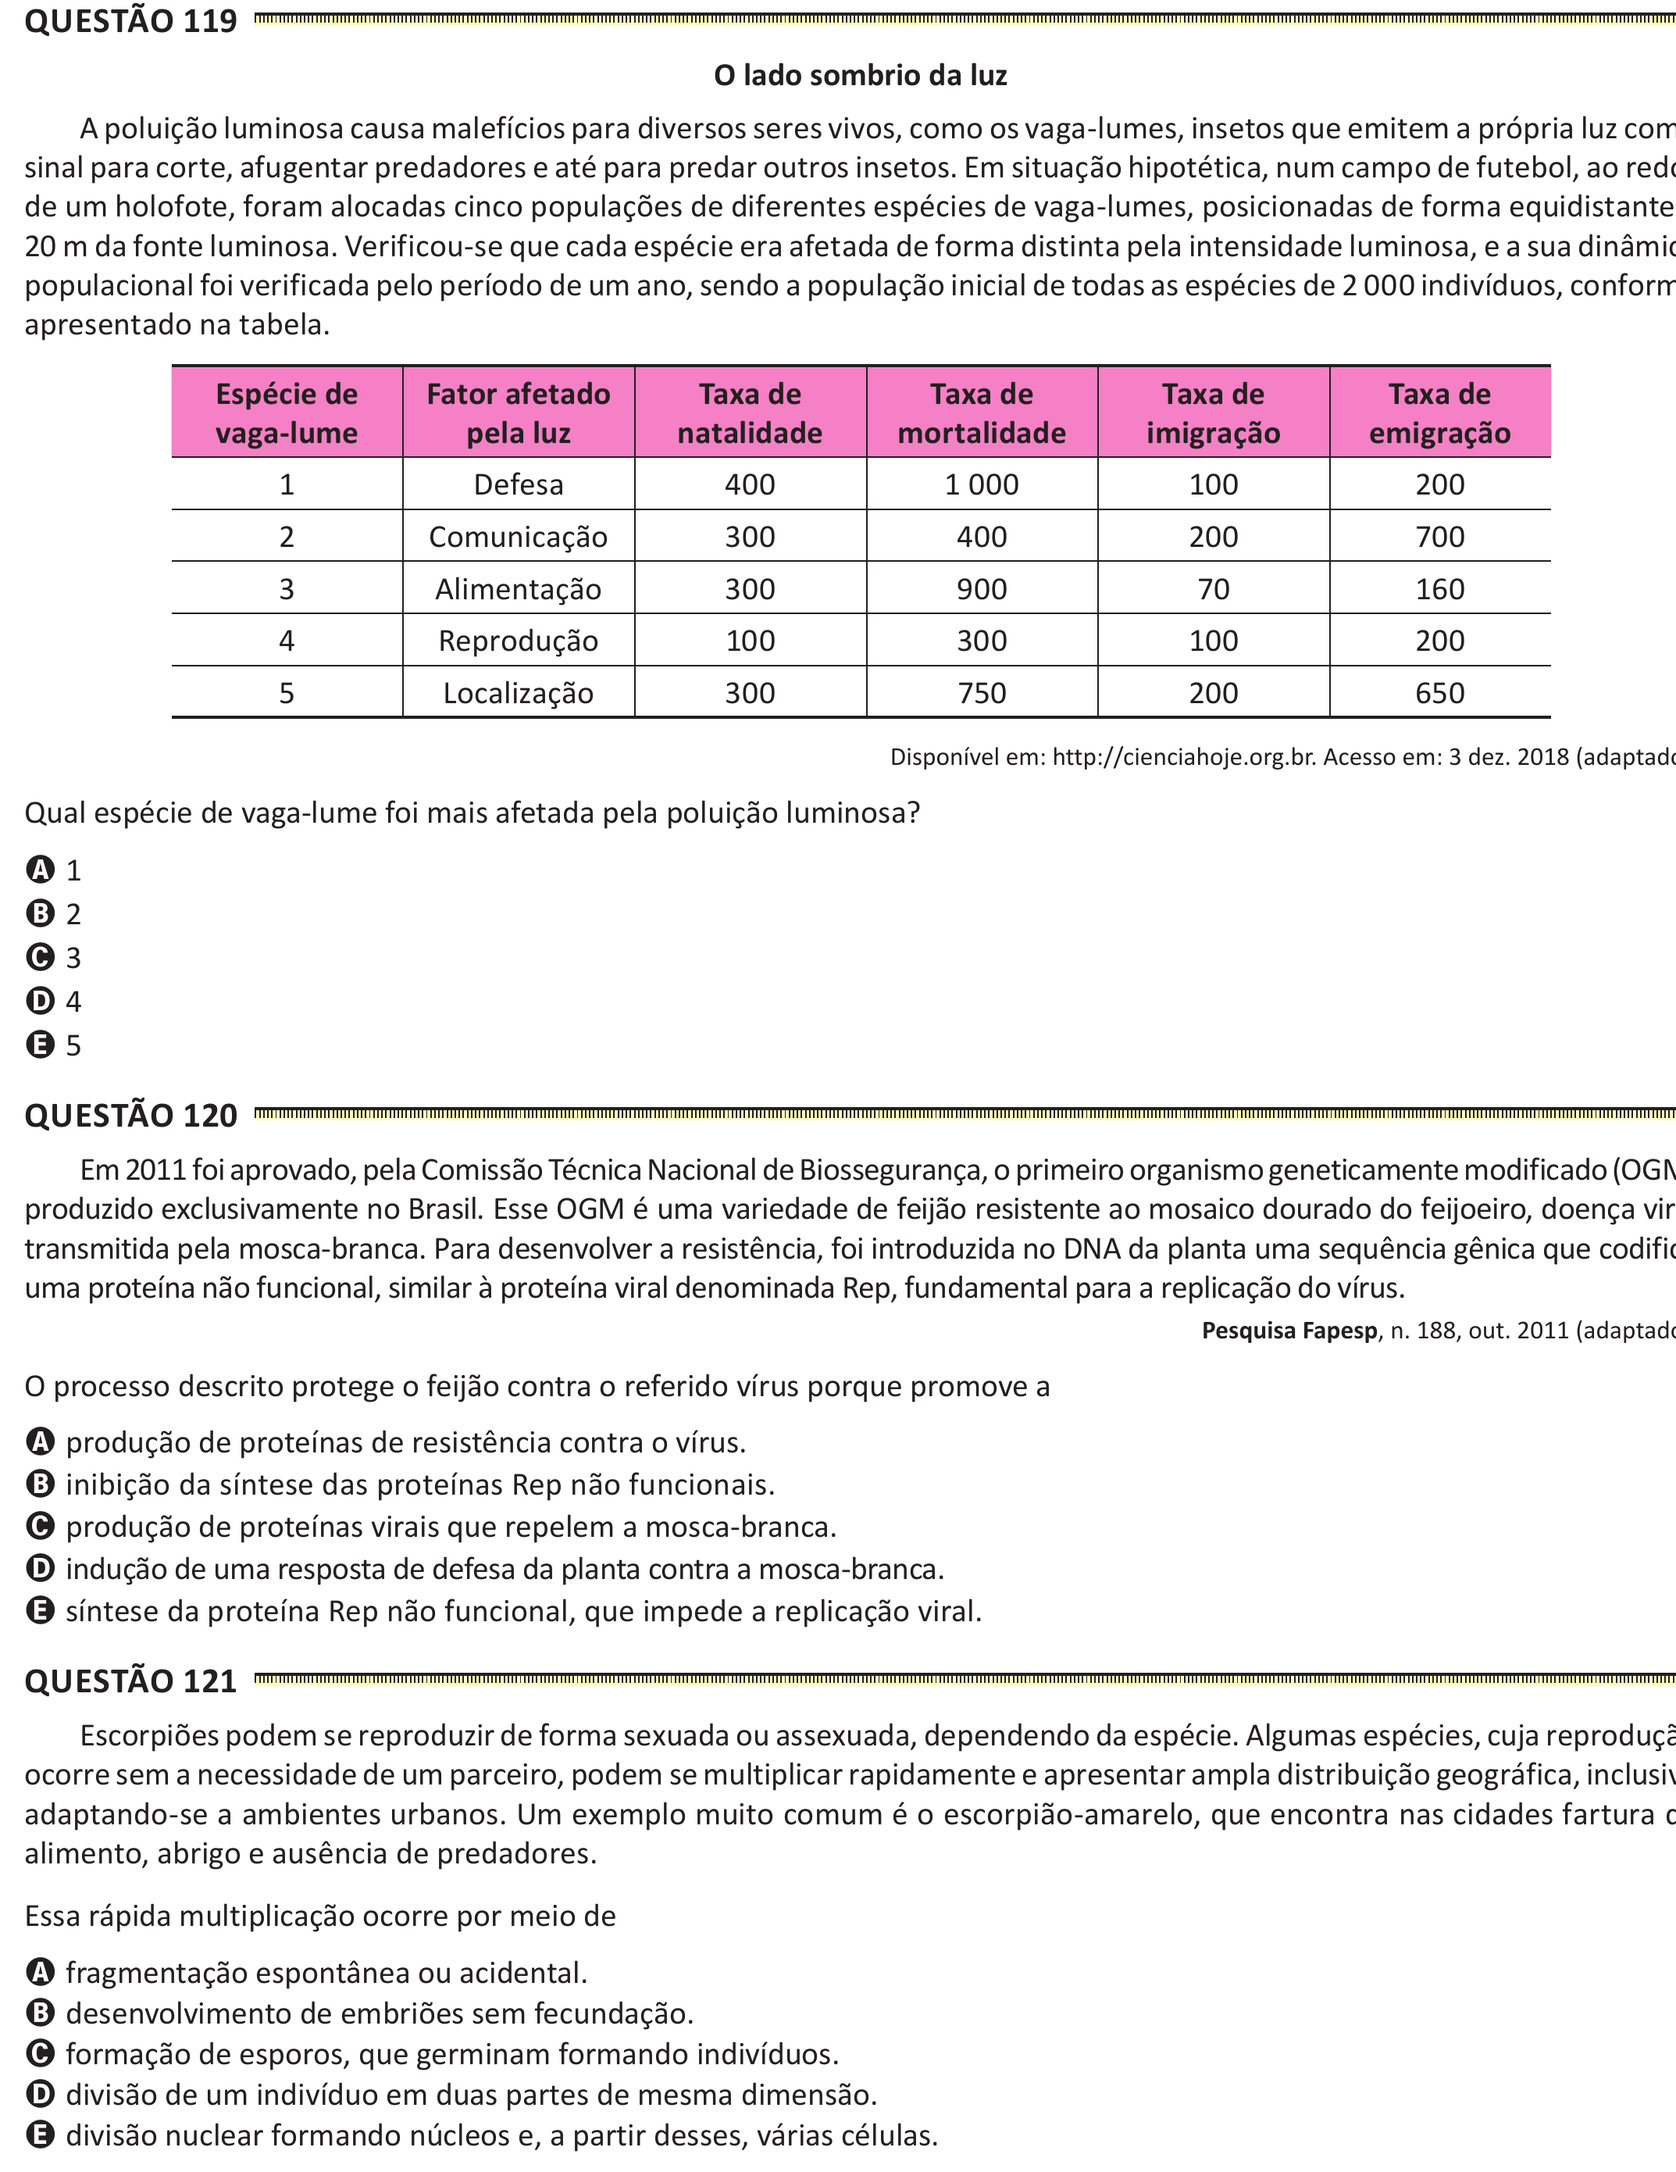
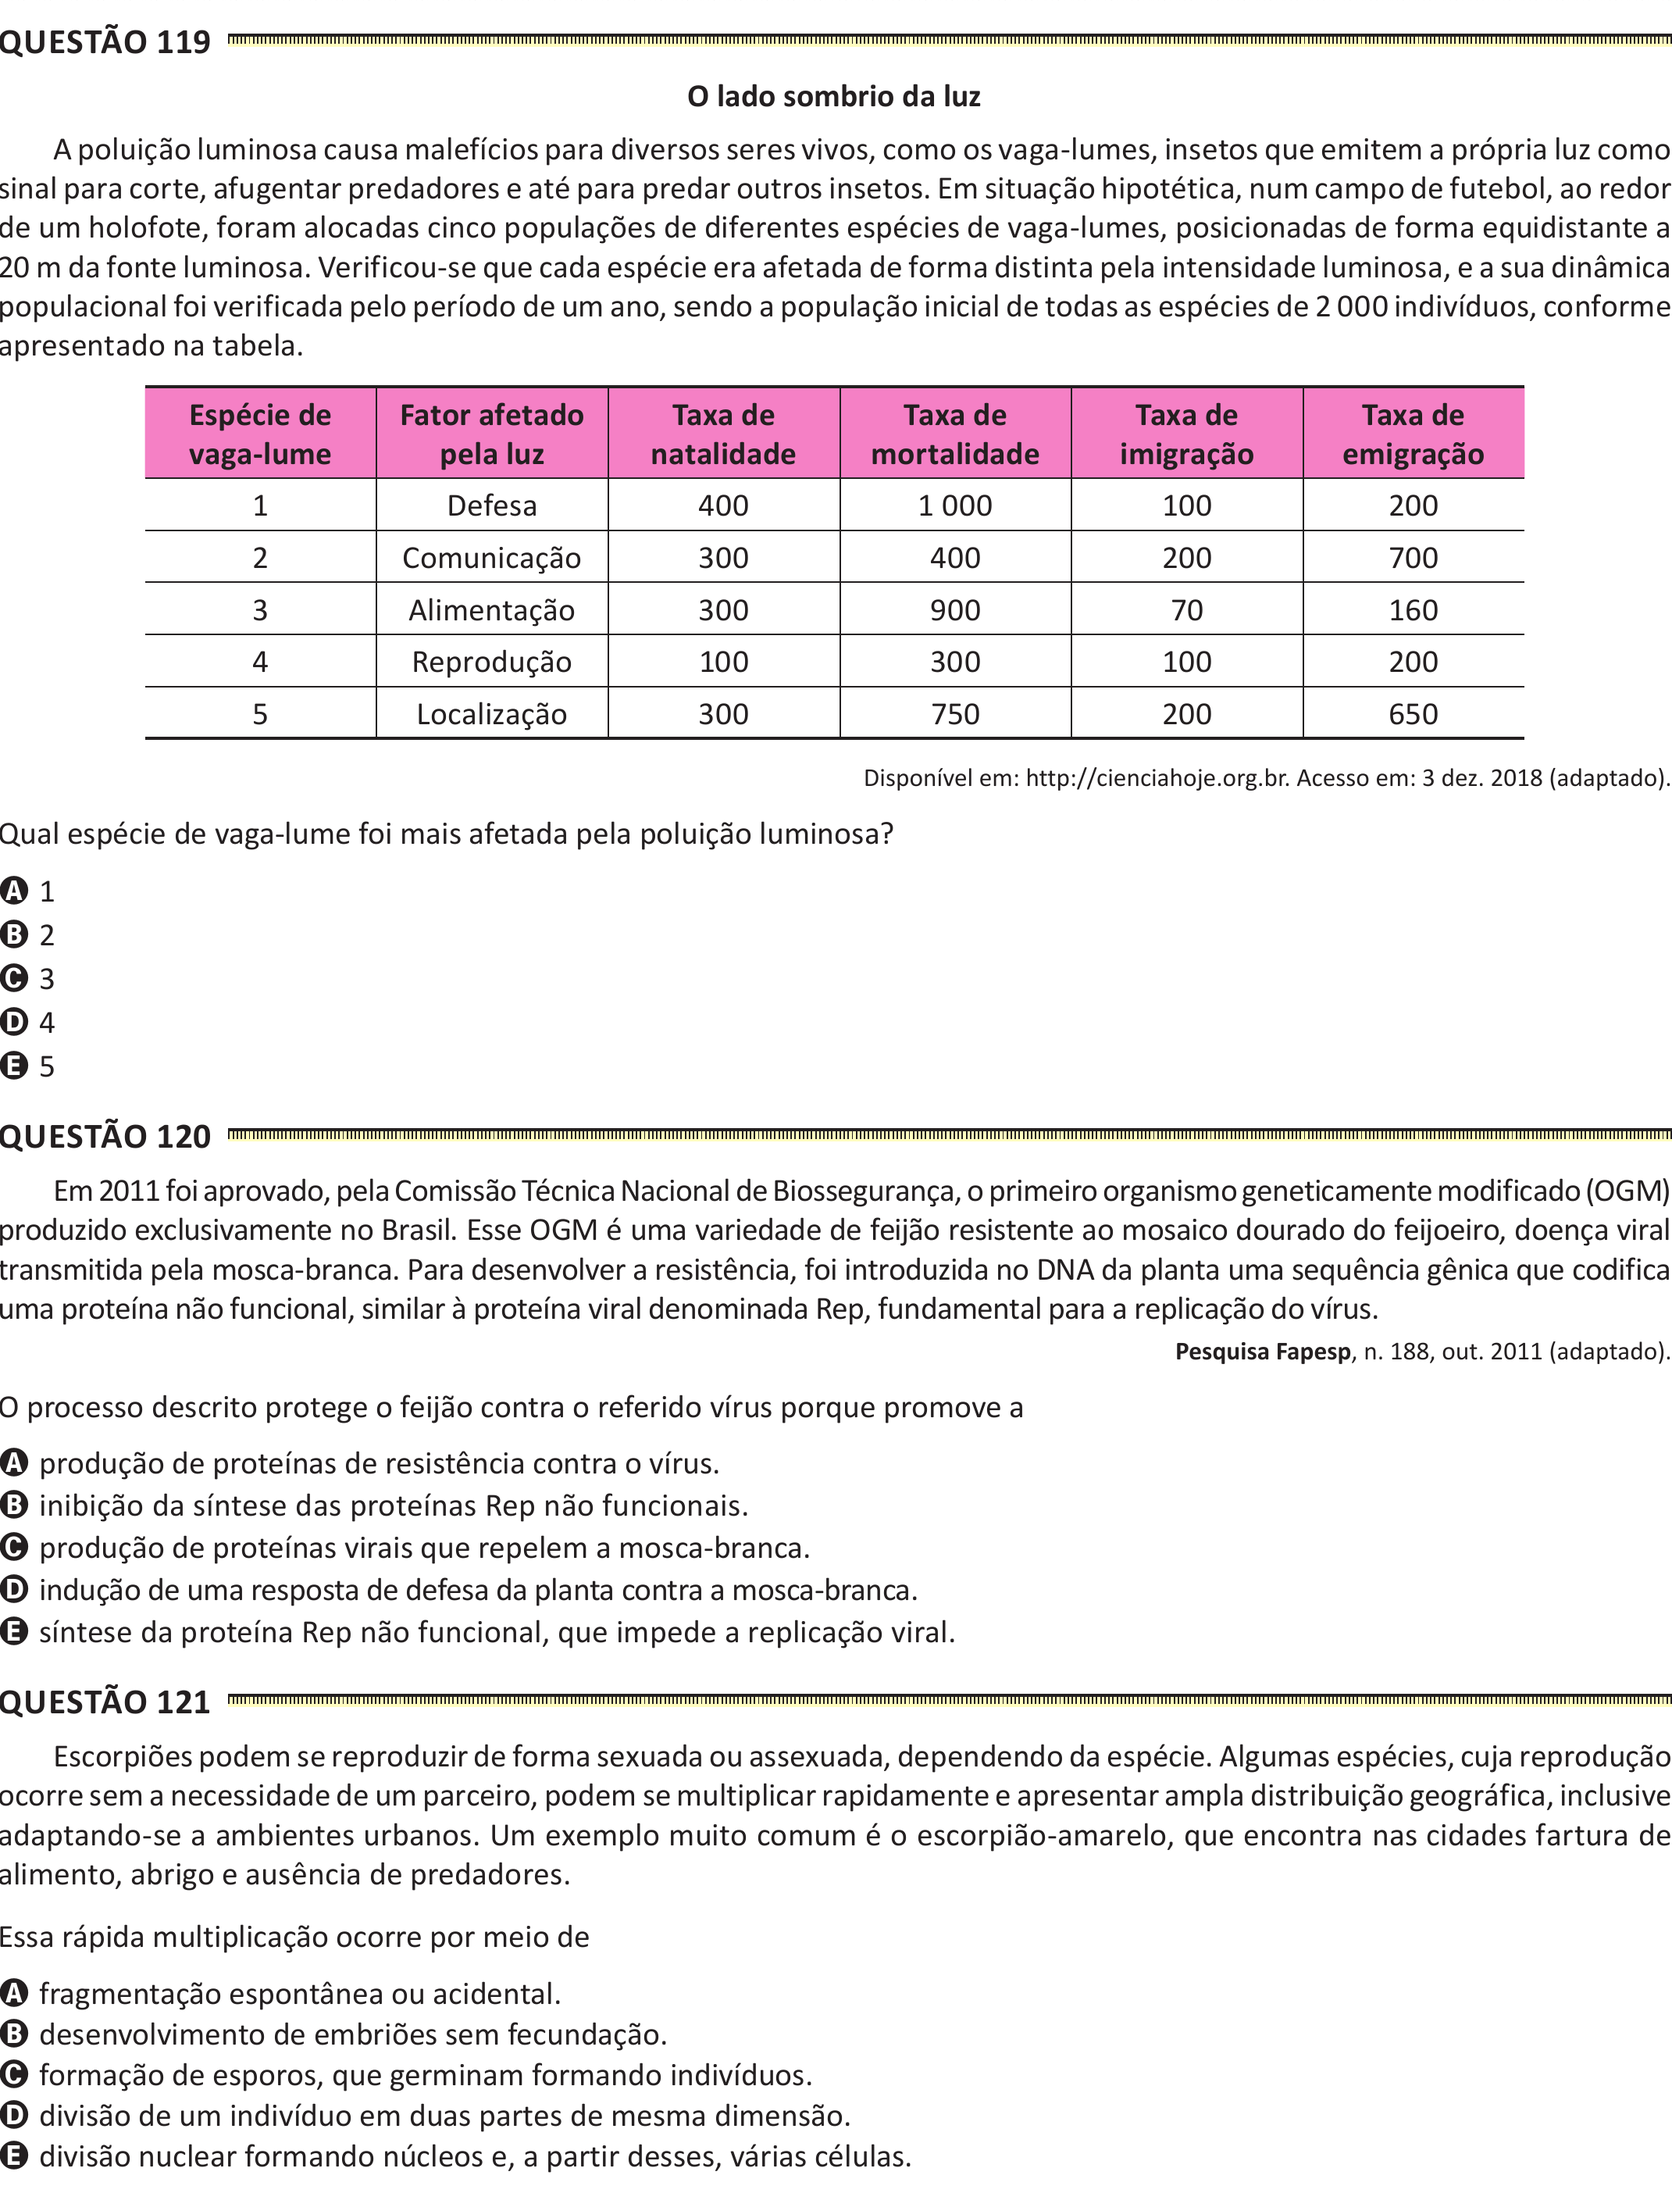
metade feito

Changed region(s): [[0.0, 0.0, 1.0, 0.9899]]

diff --git a/6Passo-ConcatenarVerticalmente/concatenar-verticalmente.py b/6Passo-ConcatenarVerticalmente/concatenar-verticalmente.py
@@ -1,28 +1,50 @@
+"""
+Propósito: concatenas verticalmente as imagens de cada pasta vinda do passo 5
+Autor: Alexandre Nassar de Peder
+Criação: 02/10/2025
+Atualização: 03/06/2026
+
+OBS1: puxe a pasta "divididas-sem-bordas-do-meio" do passo 5 para essa pasta do passo 6
+
+OBS2: o objetivo deste passo é pegar as colunas já recortadas e empilhar uma em cima da outra, na ordem correta, para formar uma única imagem final. Futuramente, essa imagem concatenada será dividida em imagens de cada questão, mas isso será feito no passo 7.
+
+OBS3: este código vai criar uma imagem final chamada "colunas_concatenadas_verticalmente.png" que vai ter todas as colunas concatenadas verticalmente na ordem correta
+
+OBS4: não compensa concatenar as páginas inteiras. Tenha isso em mente para o passo 7. Concatene apenas as colunas.
+
+OBS5: tem provas que as colunas são de tamanhos diferentes. Tenha isso em mente. Não ajuda muito ter uma coluna maior que a outra. Se esse for o seu caso, você pode ajustar o código para lidar com isso, tal como concatenar as colunas do mesmo tamanho e depois concatenar as colunas menores em outra imagem. Mas isso é um caso específico. Se precisar, coloque as colunas do mesmo tamanho em uma única pasta, e execute atualizando as linhas 24 e 60
+
+OBS6: execute o código
+"""
+
 from PIL import Image
 import os
 import re
 
-pasta_imagens = "1102-divididas-sem-bordas-do-meio"  # Altere para "." caso o script rode dentro da própria pasta das imagens
+pasta_imagens = "divididas-sem-bordas-do-meio"
 pasta_saida = "."
 os.makedirs(pasta_saida, exist_ok=True)
 
-# Função para extrair o número da página e ordenar numericamente
+# Função para extrair o número da página e ordenar corretamente
 def get_sort_key(nome_arquivo):
-    match = re.search(r'pagina_enem_(\d+)_', nome_arquivo)
-    return int(match.group(1)) if match else 0
+    # Extrai o número da página
+    numero = int(re.search(r'pagina_enem_(\d+)_', nome_arquivo).group(1))
+    # Define a ordem: esquerda primeiro (0), depois direita (1)
+    lado = 0 if 'esquerda' in nome_arquivo else 1
+    return (numero, lado)
 
-# Filtrar e ordenar apenas os arquivos que terminam com '_esquerda.png'
-arquivos = [f for f in os.listdir(pasta_imagens) if f.endswith('_esquerda.png')]
+# Pegar e ordenar as imagens corretamente
+arquivos = [f for f in os.listdir(pasta_imagens) if f.endswith('.png')]
 arquivos.sort(key=get_sort_key)
 
-# Abrir todas as imagens filtradas na ordem correta
+# Abrir todas as imagens na ordem correta
 imagens = []
 for arquivo in arquivos:
     caminho = os.path.join(pasta_imagens, arquivo)
     imagens.append(Image.open(caminho))
-    print(f"Adicionando: {arquivo}")
+    print(f"Adicionando: {arquivo}")  # Para verificar a ordem
 
-# Encontrar a largura máxima entre as imagens esquerdas
+# Encontrar a largura máxima
 largura_max = max(img.width for img in imagens)
 
 # Concatenar verticalmente
@@ -34,7 +56,7 @@ for img in imagens:
     imagem_final.paste(img, (0, y))
     y += img.height
 
-# Salvar o resultado
-imagem_final.save(os.path.join(pasta_saida, '1102_esquerda_concatenadas_verticalmente.png'))
-print("Imagens da esquerda concatenadas com sucesso!")
+# Salvar
+imagem_final.save(os.path.join(pasta_saida, 'colunas_concatenadas_verticalmente.png'))
+print("Imagens concatenadas na ordem correta!")
 print(f"Ordem dos arquivos: {arquivos}")

diff --git a/3Passo-DividirAoMeioPaginasSemBordas/sem-bordas-externas/cortar-meio.py b/3Passo-DividirAoMeioPaginasSemBordas/sem-bordas-externas/cortar-meio.py
@@ -1,0 +1,51 @@
+"""
+Propósito: Cortar as imagens de colunas ao meio. As imagens já estão sem as bordas externas, agora só cortar ao meio
+Autor: Alexandre Nassar de Peder
+Criação: 02/10/2025
+Atualização: 03/06/2026
+
+OBS1: puxe a pasta "sem-bordas-externas" do passo 2 para esta pasta do passo 3
+
+OBS2: pode ter páginas inteiras e páginas com coluas. Crie uma pasta chamada "inteiras", retire as imagens inteiras e coloque-as nessa pasta
+
+OBS3: observe também se as páginas do seu caderno mantém a mesma altura, tem cadernos que têm duas colunas mas não são exatamente cortadas na metade... se isso acontecer, você vai ter que tratar essas páginas de forma diferente
+
+OBS4: este código vai criar uma pasta de saída chamada "divididas-com-bordas-do-meio", vai cortar ao meio (ver linha 35) as páginas que são colunas e salvar as imagens cortadas nessa pasta criada
+
+OBS5: execute este código. Ao cortar as colunas ao meio, vai gerar uma bordinha interna
+
+OBS6: as imagens vão receber um novo nome, com o sufixo "_esquerda" ou "_direita" para indicar a coluna
+"""
+
+from PIL import Image
+import os
+
+pasta_imagens = "sem-bordas-externas"
+pasta_saida = "divididas-com-bordas-do-meio"
+
+os.makedirs(pasta_saida, exist_ok=True)
+
+for nome_arquivo in os.listdir(pasta_imagens):
+    if nome_arquivo.lower().endswith('.png'):
+        caminho_entrada = os.path.join(pasta_imagens, nome_arquivo)
+        imagem = Image.open(caminho_entrada)
+
+        largura, altura = imagem.size
+        
+        metade_largura = largura // 2
+        
+        caixa_esquerda = (0, 0, metade_largura, altura)
+        imagem_esquerda = imagem.crop(caixa_esquerda)
+        
+        caixa_direita = (metade_largura, 0, largura, altura)
+        imagem_direita = imagem.crop(caixa_direita)
+        
+        nome_base, extensao = os.path.splitext(nome_arquivo)
+        
+        caminho_esquerda = os.path.join(pasta_saida, f"{nome_base}_esquerda{extensao}")
+        caminho_direita = os.path.join(pasta_saida, f"{nome_base}_direita{extensao}")
+        
+        imagem_esquerda.save(caminho_esquerda)
+        imagem_direita.save(caminho_direita)
+
+print("Divisão das imagens ao meio concluída.")

diff --git a/2Passo-RemoverBordasPaginasInteiras/remover-bordas.py b/2Passo-RemoverBordasPaginasInteiras/remover-bordas.py
@@ -1,5 +1,5 @@
 """
-Propósito: remover as bordas externas das páginas
+Propósito: remover as bordas externas das páginas (distinguindo pares e ímpares)
 Autor: Alexandre Nassar de Peder
 Criação: 02/10/2025
 Atualização: 03/06/2026
@@ -8,7 +8,7 @@ OBS1: puxe a pasta "imagens-convertidas" do passo 1 para essa pasta do passo 2
 
 OBS2: abra a imagem no GIMP e conte pixels para saber quanto de borda tem que cortar.
 
-OBS3: atualize a linha 33 com os valores corretos de corte (esquerda, superior, direita, inferior)
+OBS3: valores de corte ajustados para diferenciar páginas pares e ímpares.
 
 OBS4: tenha em mente desde já que você vai usar as imagens futuramente, então corte pensando na melhor maneira para executar todos os 12 passos
 
@@ -17,6 +17,7 @@ OBS5: execute o código, e abra as imagens para conferir se as bordas foram remo
 
 from PIL import Image
 import os
+import re
 
 pasta_imagens = "imagens-convertidas"
 pasta_saida = "sem-bordas-externas"
@@ -30,7 +31,22 @@ for nome_arquivo in os.listdir(pasta_imagens):
 
         largura, altura = imagem.size
 
-        caixa_corte = (238, 469, largura - 269, altura - 290) # ATUALIZE AQUI OS VALORES DE CORTE (esquerda, superior, direita, inferior)
+        # Extrai os dígitos numéricos do nome do arquivo (ex: "pagina_enem_10.png" -> 10)
+        numeros = re.findall(r'\d+', nome_arquivo)
+        if numeros:
+            numero_pagina = int(numeros[-1])
+            
+            # Verifica se a página é par ou ímpar
+            if numero_pagina % 2 == 0:
+                # Páginas pares
+                caixa_corte = (272, 442, largura - 240, altura - 290)
+            else:
+                # Páginas ímpares
+                caixa_corte = (242, 442, largura - 270, altura - 290)
+        else:
+            # Fallback caso não encontre número no nome do arquivo
+            caixa_corte = (272, 442, largura - 240, altura - 290)
+
         imagem_cortada = imagem.crop(caixa_corte)
 
         caminho_saida = os.path.join(pasta_saida, nome_arquivo)

diff --git a/4Passo-RemoverBordasCentraisDasMetades/remover-bordas-internas.py b/4Passo-RemoverBordasCentraisDasMetades/remover-bordas-internas.py
@@ -22,8 +22,8 @@ OBS7: execute o código, e abra as imagens para conferir se as bordas foram remo
 from PIL import Image
 import os
 
-pasta_imagens = "divididas-com-bordas-do-meio-1102"
-pasta_saida = "1102-divididas-sem-bordas-do-meio"
+pasta_imagens = "divididas-com-bordas-do-meio"
+pasta_saida = "divididas-sem-bordas-do-meio"
 
 os.makedirs(pasta_saida, exist_ok=True)
 
@@ -40,11 +40,11 @@ for nome_arquivo in os.listdir(pasta_imagens):
         # Aplica cortes adicionais baseados no nome do arquivo
         if nome_arquivo.endswith("_esquerda.png"):
             # Remover pixels da borda direita das imagens de coluna da esquerda, nesse exemplo, 25 pixels
-            caixa_corte = (caixa_corte[0], caixa_corte[1], caixa_corte[2] - 24, caixa_corte[3]) # ATUALIZE AQUI O VALOR DE CORTE PARA A COLUNA DA ESQUERDA (esquerda, superior, direita, inferior)
+            caixa_corte = (caixa_corte[0], caixa_corte[1], caixa_corte[2] - 25, caixa_corte[3]) # ATUALIZE AQUI O VALOR DE CORTE PARA A COLUNA DA ESQUERDA (esquerda, superior, direita, inferior)
         
         elif nome_arquivo.endswith("_direita.png"):
             # Remover pixels da borda esquerda das imagens de coluna da direita, nesse exemplo, 25 pixels
-            caixa_corte = (caixa_corte[0], caixa_corte[1], caixa_corte[2], caixa_corte[3]) # ATUALIZE AQUI O VALOR DE CORTE PARA A COLUNA DA DIREITA (esquerda, superior, direita, inferior)
+            caixa_corte = (caixa_corte[0] + 26, caixa_corte[1], caixa_corte[2], caixa_corte[3]) # ATUALIZE AQUI O VALOR DE CORTE PARA A COLUNA DA DIREITA (esquerda, superior, direita, inferior)
         
         imagem_cortada = imagem.crop(caixa_corte)
         
